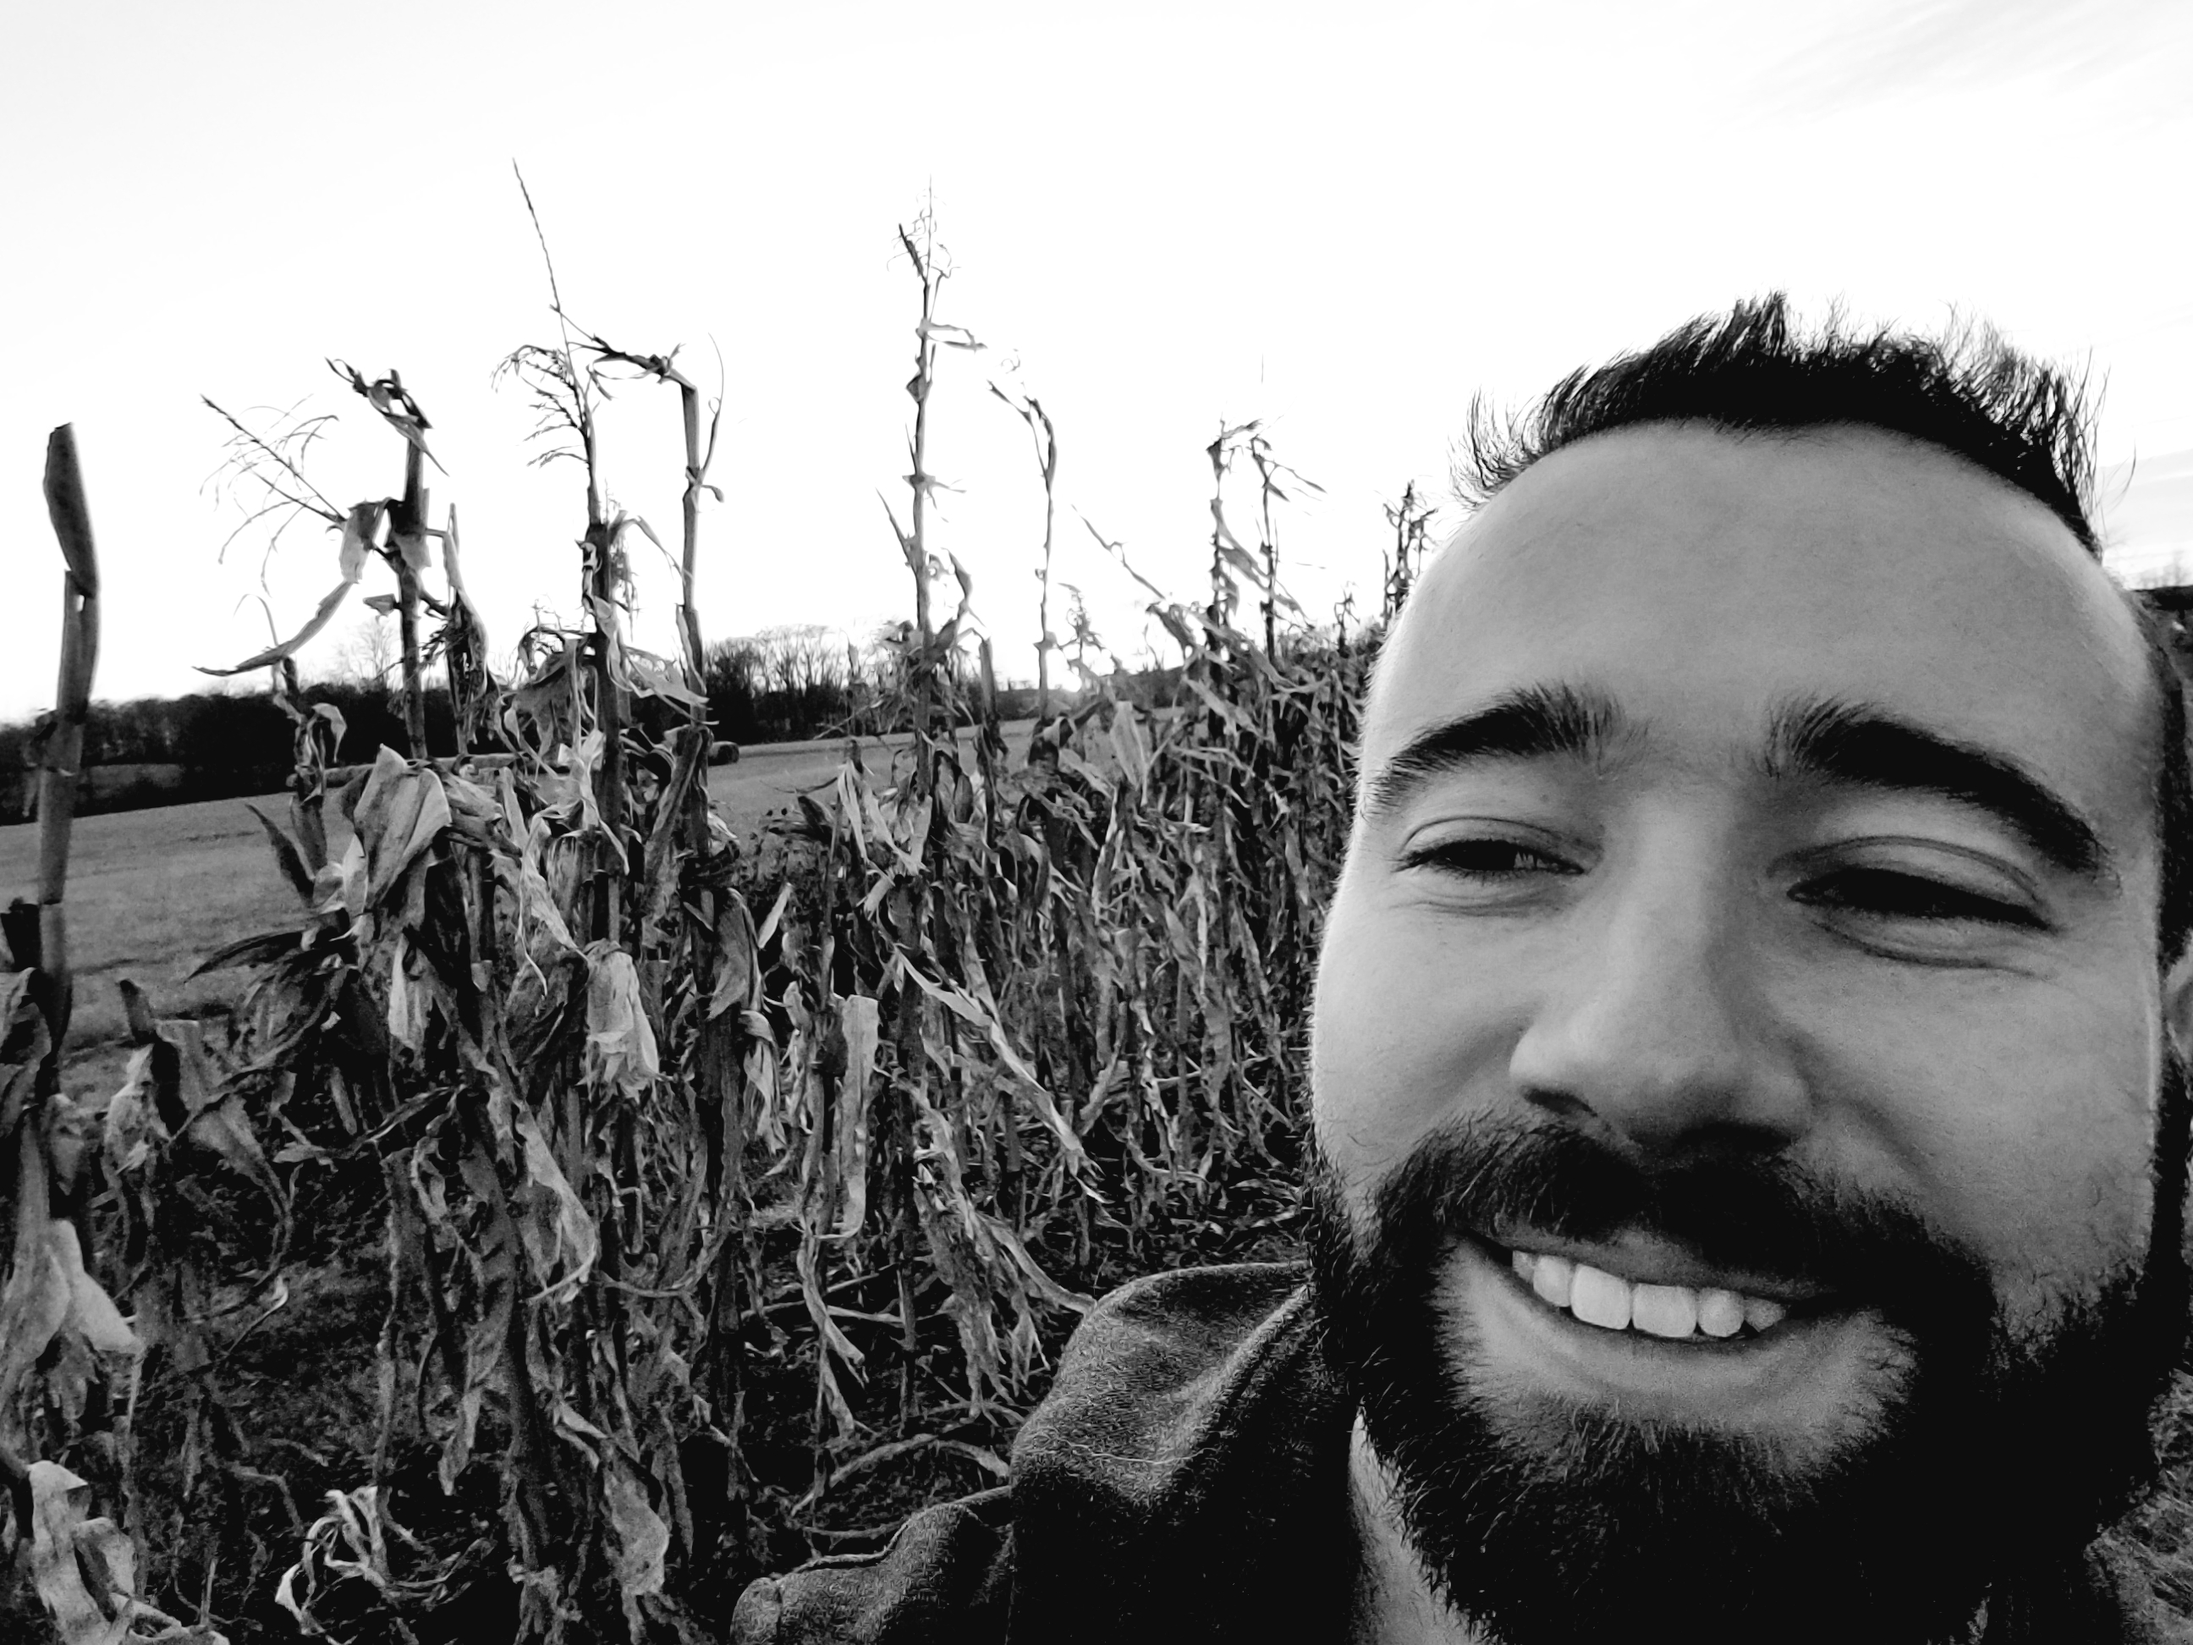
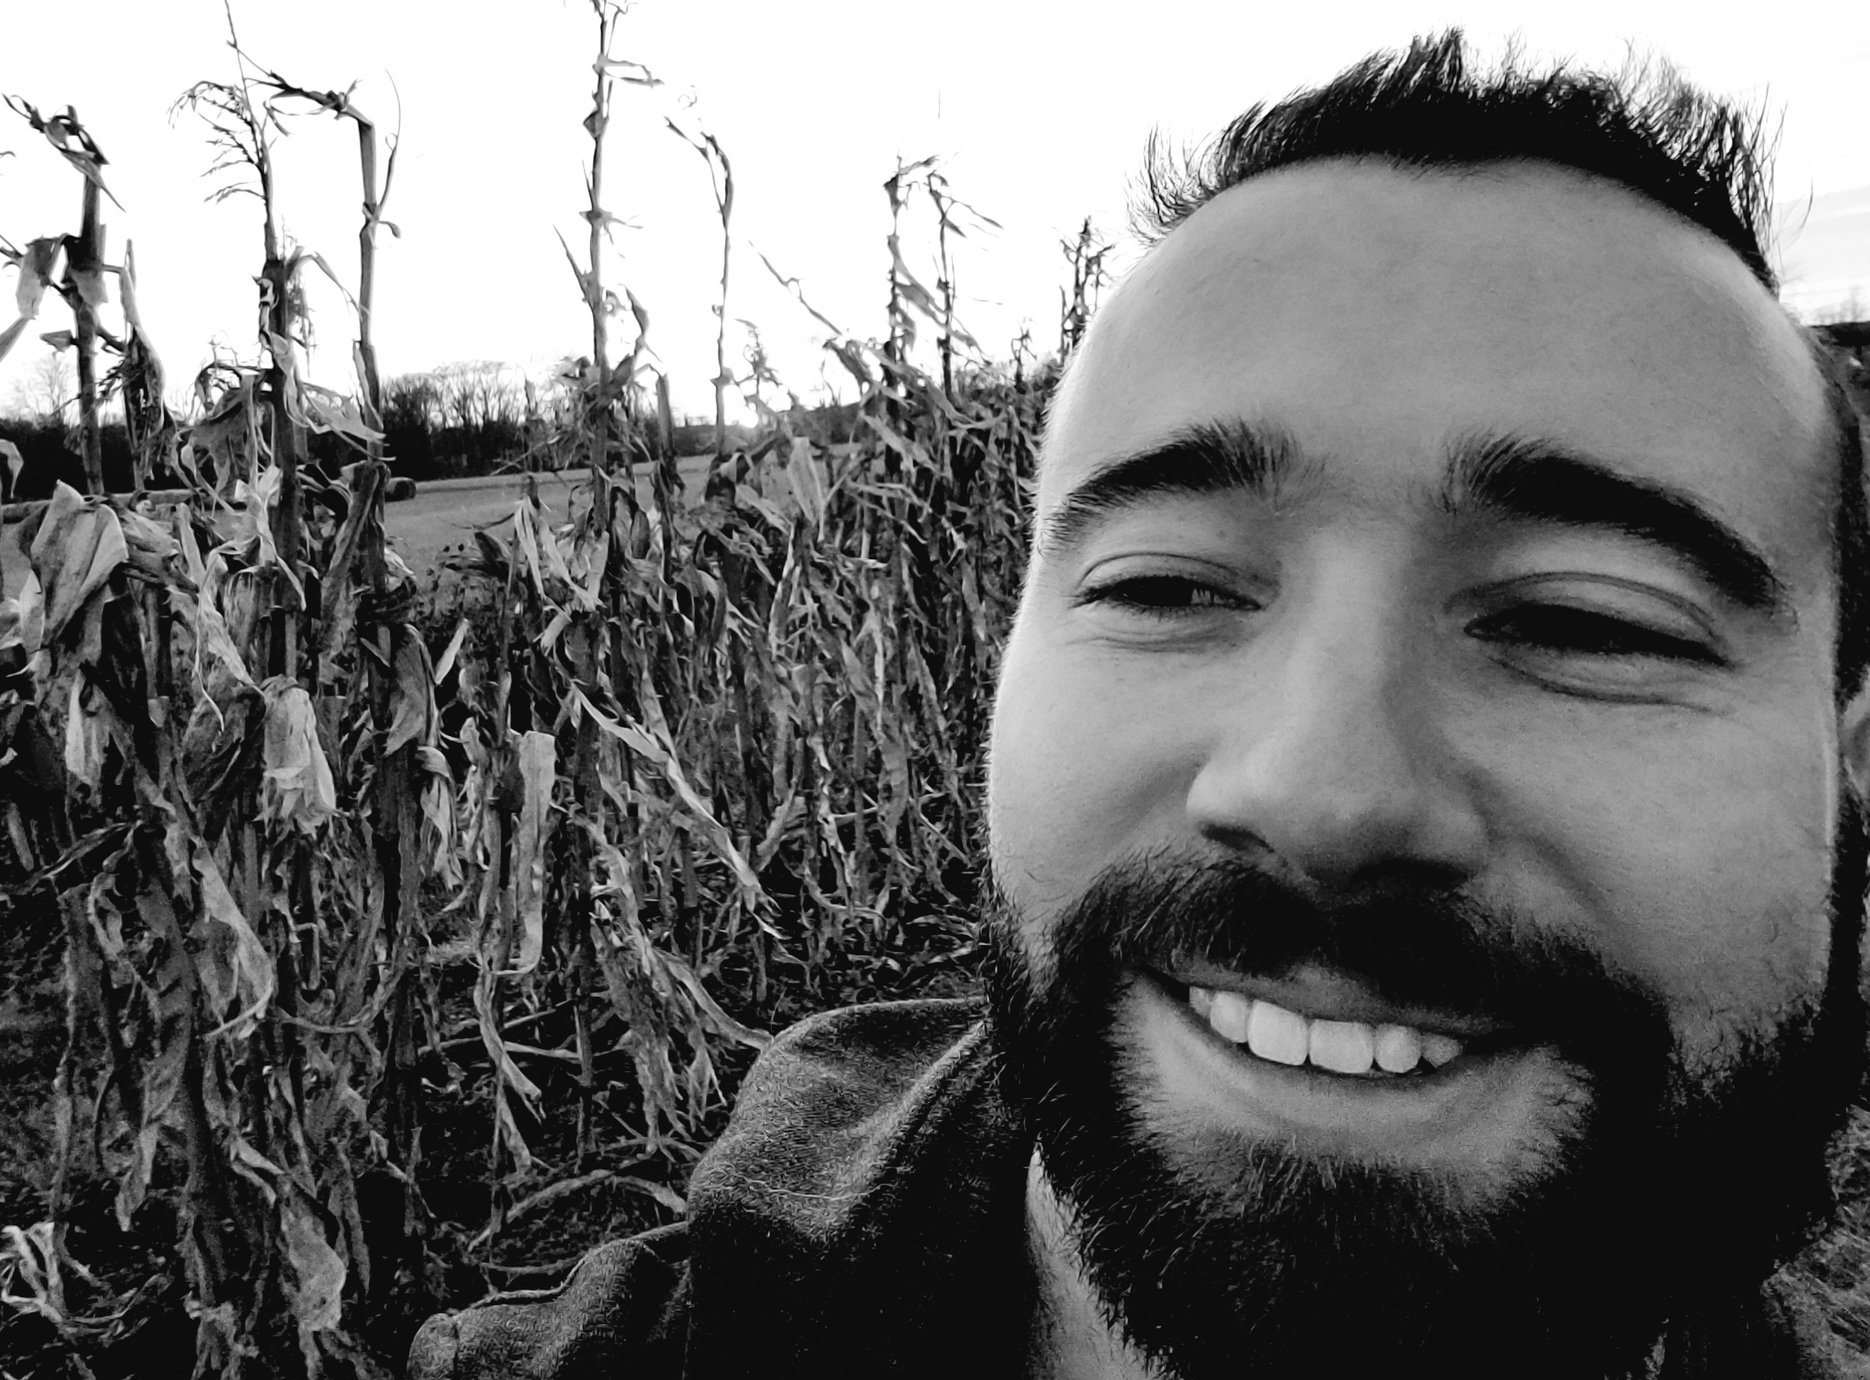
changed header photo for less white space/text blended in; added a block fill display for links, put links back into html file

diff --git a/index.html b/index.html
@@ -99,7 +99,7 @@
           <p></p>
           <div class="grid-container">
             <div class="img-holder" id="f2p">
-               <!--<p><a  href="https://patrickthayes.github.io/FridgeIngredientToMeal-groupProject1/" target="_blank"/></p>-->
+               <a  href="https://patrickthayes.github.io/FridgeIngredientToMeal-groupProject1/" target="_blank" class="backgroundLink"/>
             </div>
             <div class="hideOverflow bright">
               <p>Fridge 2 Plate is an easy to use web app that runs on the front end. It utilizes user input and APIs to return recipes and how to videos for selected recipes.
@@ -110,7 +110,9 @@
                 <a href="https://github.com/PatrickTHayes/FridgeIngredientToMeal-groupProject1" target="_blank" class="btn btn-default btn-lg">Visit the source code here.</a>
               </p>
             </div>
-            <div class="img-holder" id="GoT"></div>
+            <div class="img-holder" id="GoT">
+              <a href="https://patrickthayes.github.io/GOT-Clicky-React/" target="_blank" class="backgroundLink"/>
+            </div>
             <div class ="hideOverflow">
               <p>React SPA click game, Game of Thrones theme, utilizes KnuthYates shuffle in es6, highlights material-ui use for importing components. Score is stored with setState.
               </p>
@@ -121,11 +123,14 @@
                 <a href="https://github.com/PatrickTHayes/GOT-Clicky-React" target="_blank" class="btn btn-default btn-lg">Visit the source code here.</a>
               </p>
             </div>
-            <div class="img-holder" id="r2tc"></div>
+            <div class="img-holder" id="r2tc">
+              <a href="https://desolate-crag-26628.herokuapp.com/" target="_blank" class="backgroundLink"/>
+            </div>
             <div  class ="hideOverflow">
               <p>The core functionality of the app is to provide a platform where users are able to create and issue challenges to their friends or strangers. Highlights: well modeled, connected collections. user auth, email usage (sendGrid), and examplary <a href="https://docs.google.com/document/d/1FjRBmBWHrQYBZqJk0PMZFQVDwoApTuZaWYPN7hFRYfQ/edit#" target="_blank" class="btn btn-default btn-sm">group documentation</a>
               </p>
-              <p><a href="https://desolate-crag-26628.herokuapp.com/" target="_blank" class="btn btn-default btn-lg">Visit the running app here. </a>
+              <p>
+                <a href="https://desolate-crag-26628.herokuapp.com/" target="_blank" class="btn btn-default btn-lg">Visit the running app here. </a>
               </p>
               <p>
                 <a href="https://github.com/PatrickTHayes/Rise-to-the-Challenge" target="_blank" class="btn btn-default btn-lg">Visit the source code here.</a>

diff --git a/css/grayscale.css b/css/grayscale.css
@@ -354,3 +354,9 @@ img::-moz-selection {
 .hideOverflow:hover{
   opacity:1.0;
 }
+
+.backgroundLink{
+  display:block;
+  height:100%;
+  width:100%;
+}
